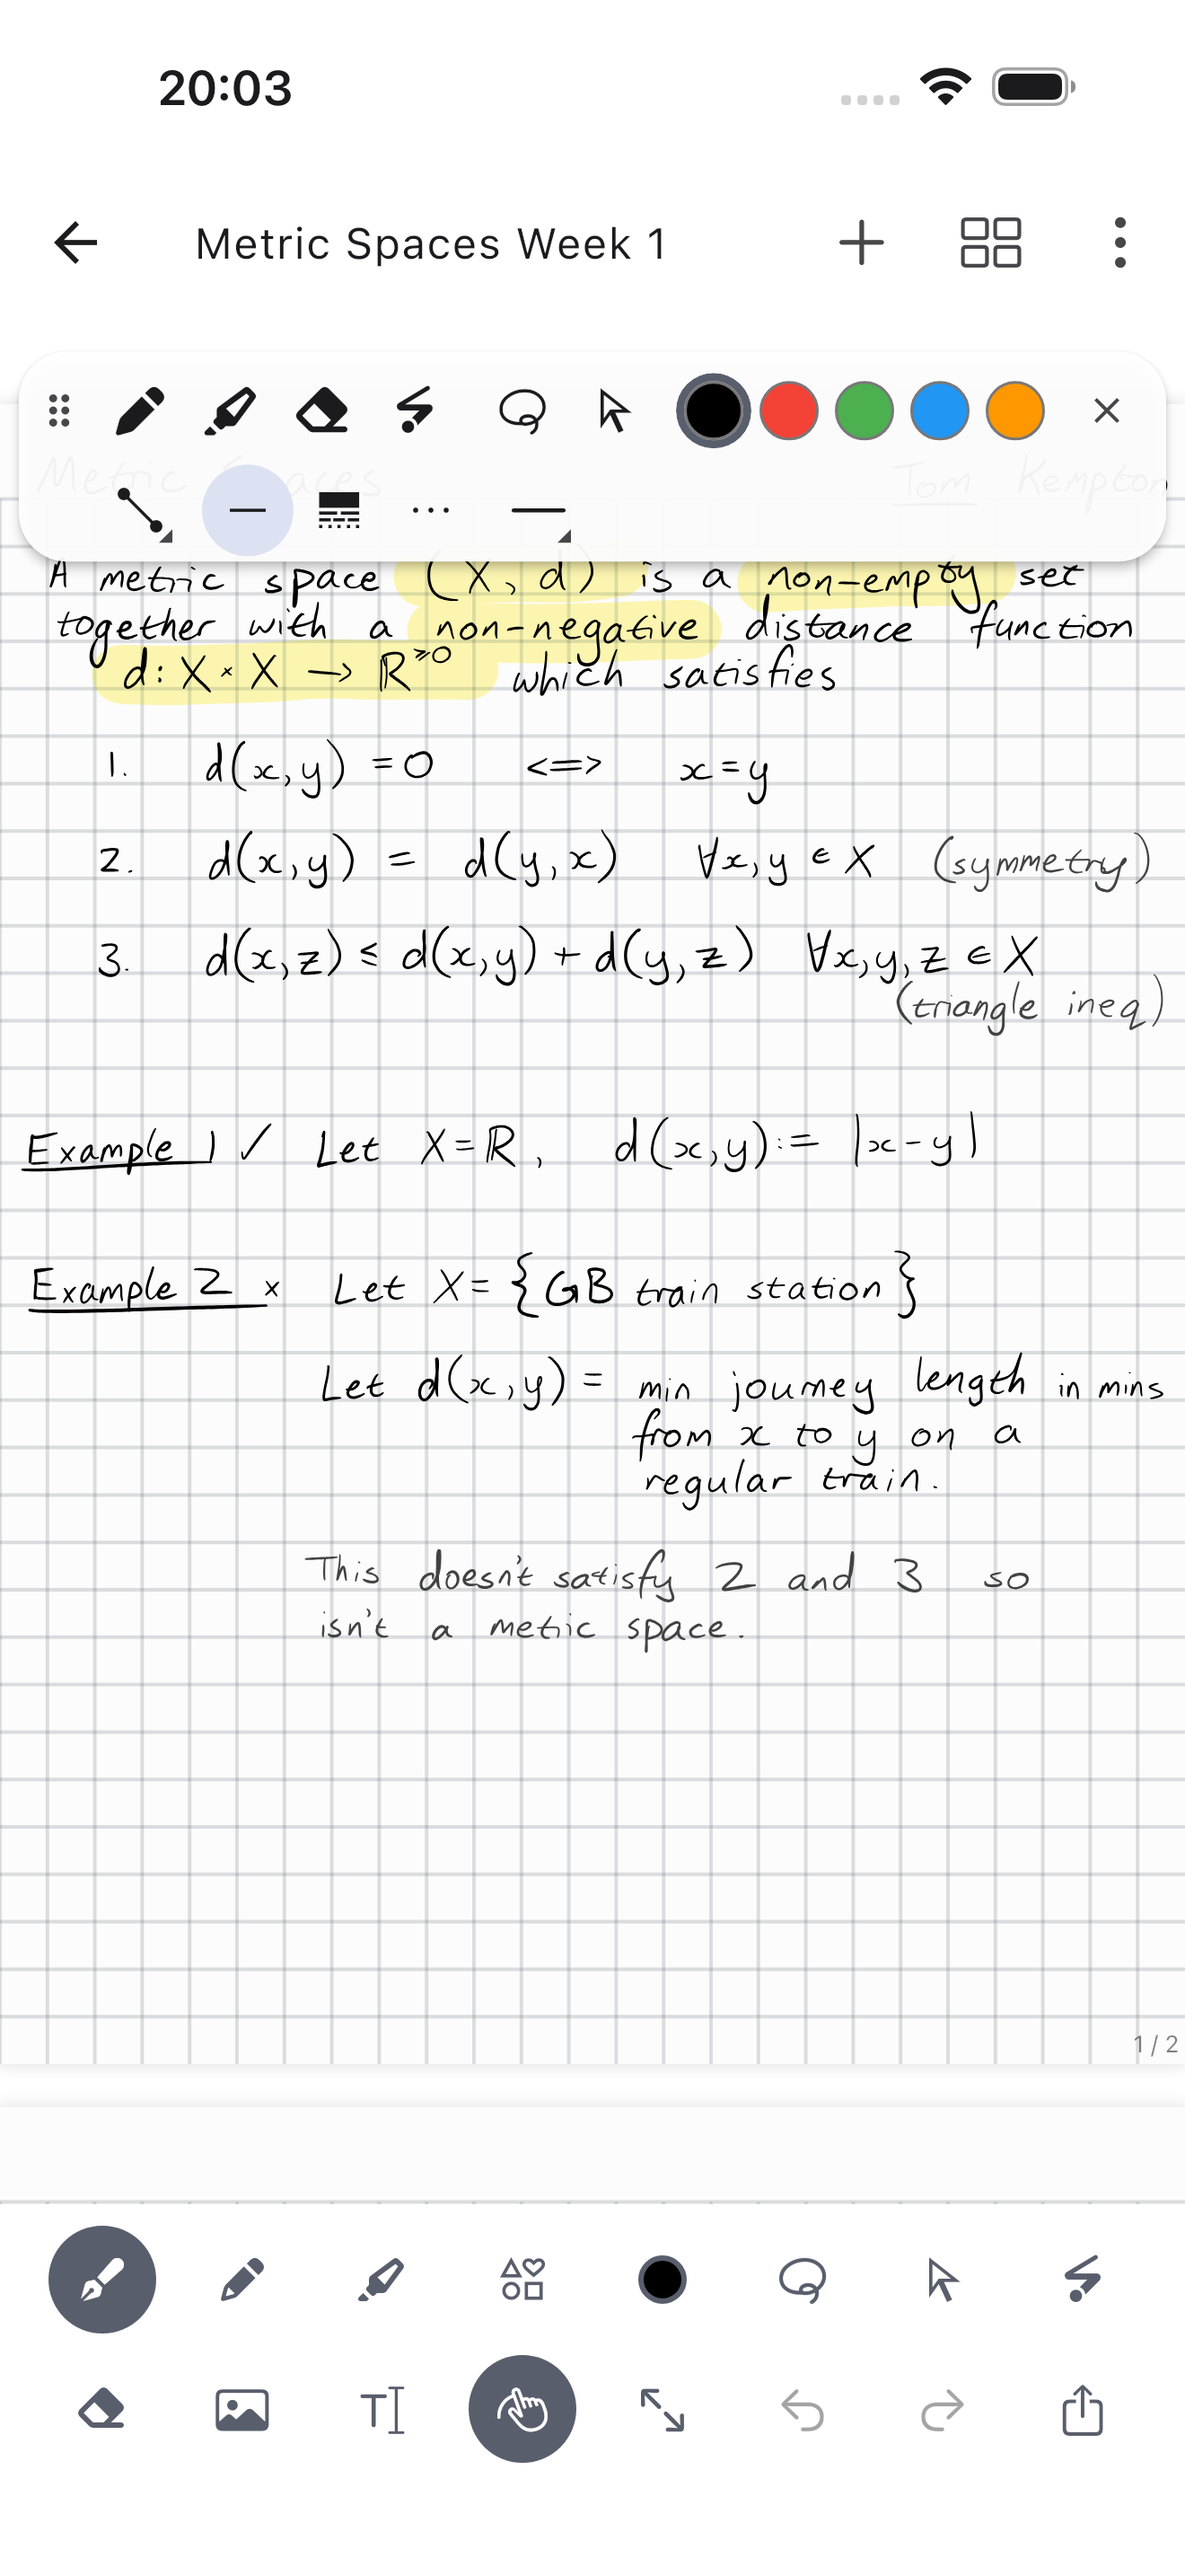
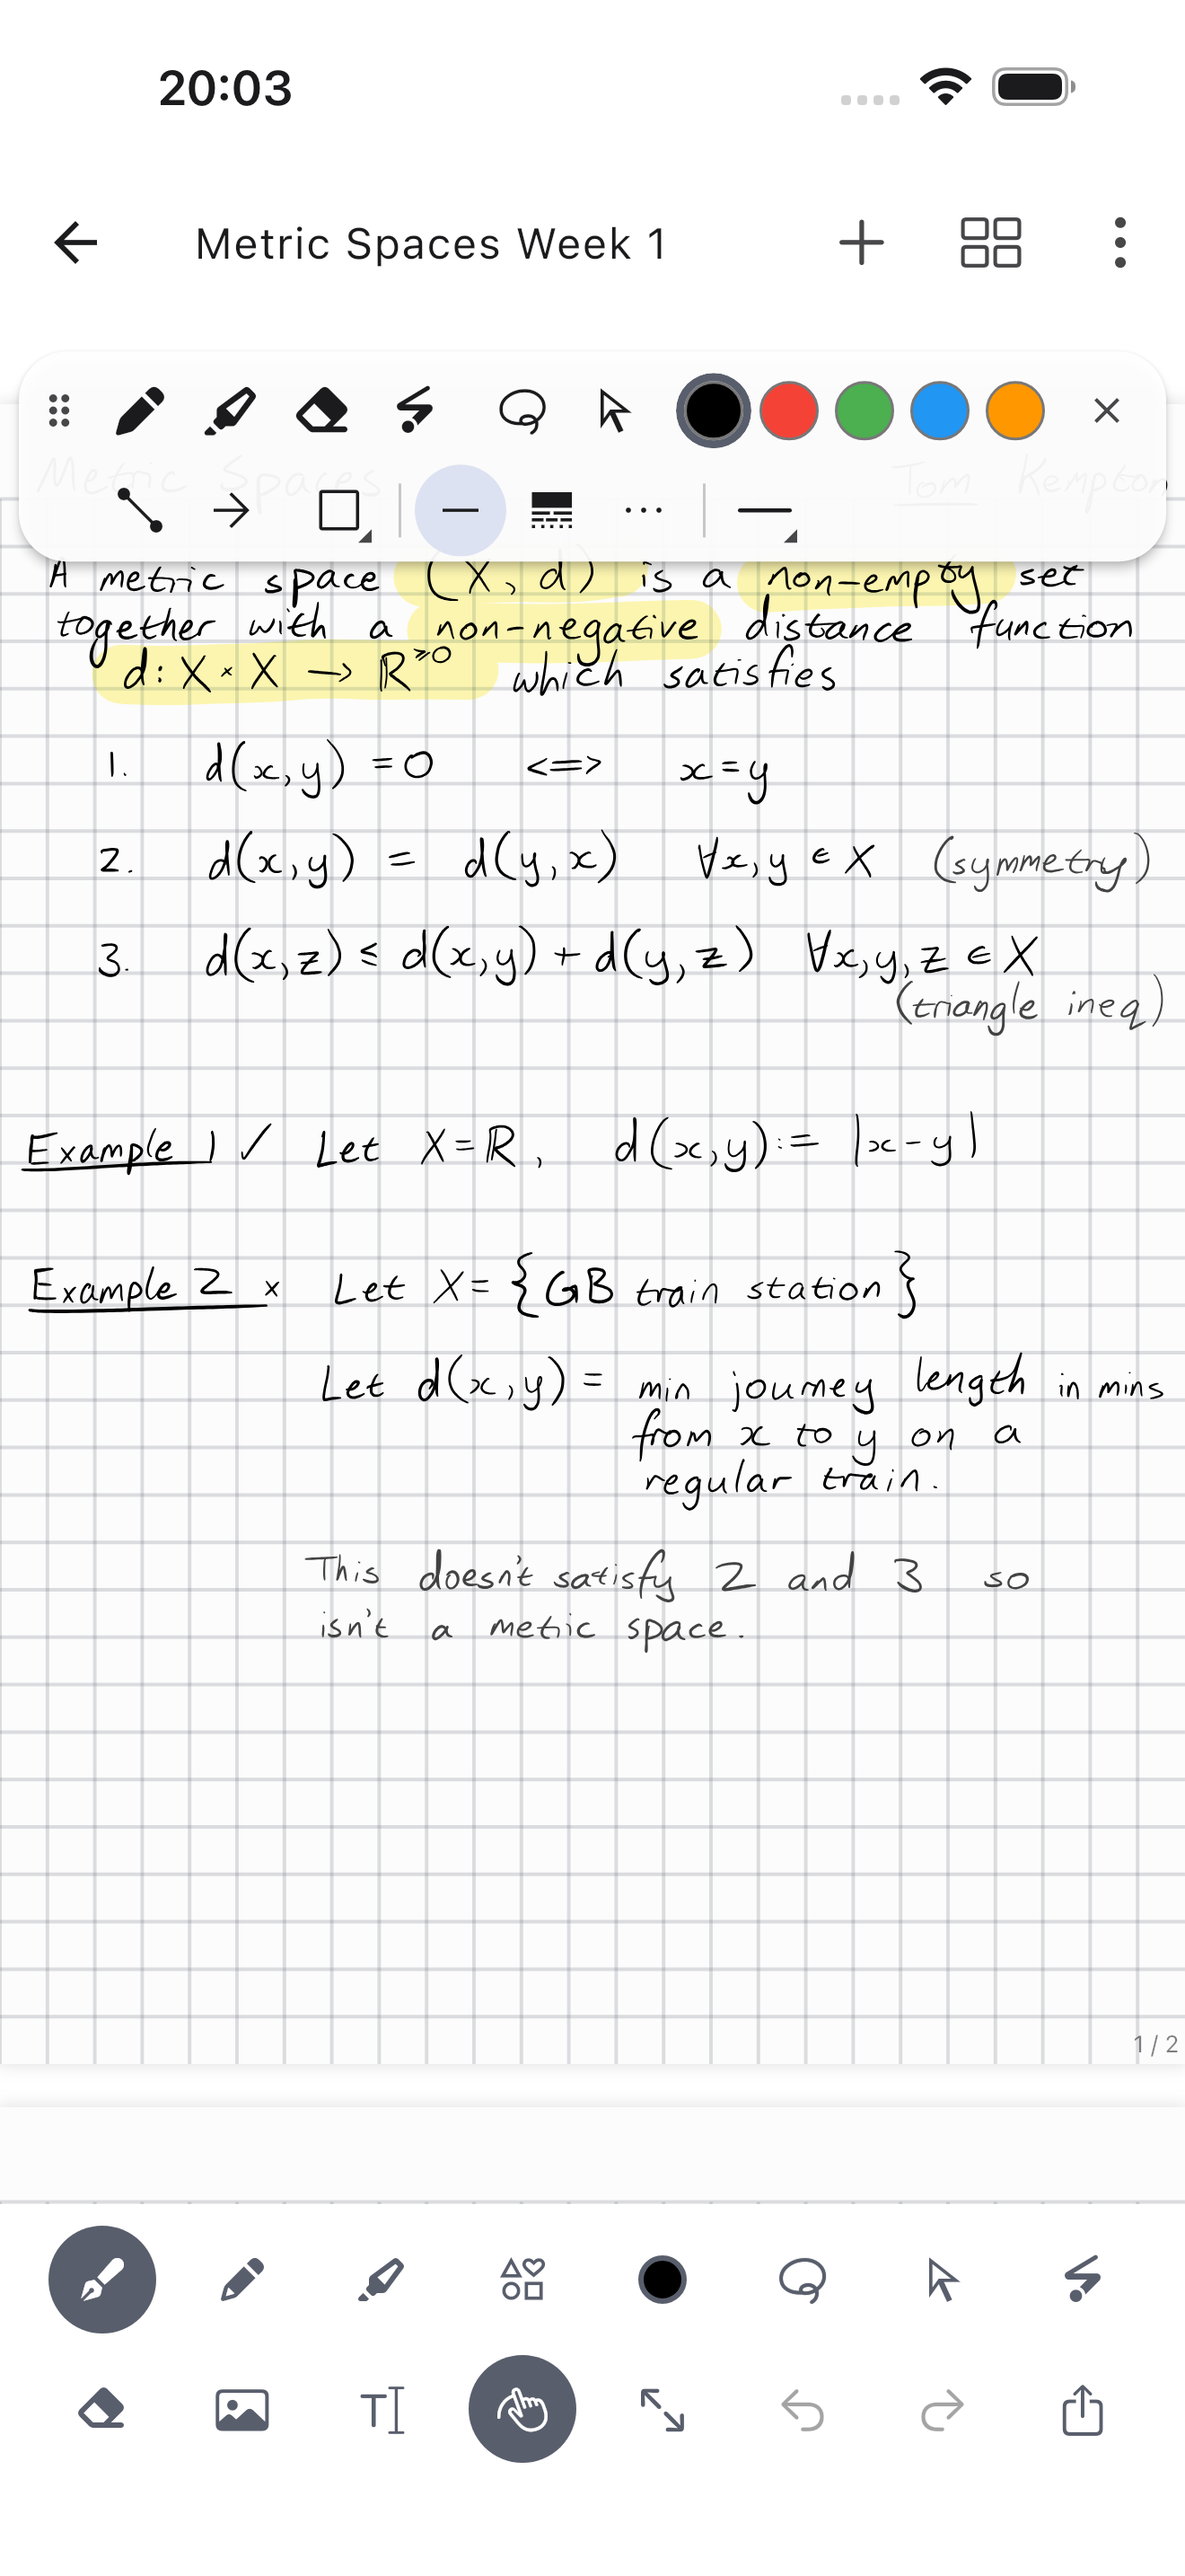
palette: give line and arrow their own buttons
The dropdown keeps the double arrow, rectangle and circle. Lines
now divide the shapes, line types and thickness.

Changed region(s): [[0.3417, 0.1552, 0.497, 0.2172], [0.1553, 0.1552, 0.3106, 0.2172]]

diff --git a/lib/pages/editor/editor.dart b/lib/pages/editor/editor.dart
@@ -1282,6 +1282,17 @@ class EditorState extends State<Editor> {
     Colors.orange,
   ];
 
+  /// The shapes in the palette's dropdown; lines and arrows have
+  /// their own buttons.
+  static const _paletteDropdownShapes = [
+    ShapeKind.doubleArrow,
+    ShapeKind.rectangle,
+    ShapeKind.circle,
+  ];
+
+  /// The dropdown shape used last, shown on the dropdown's button.
+  var _paletteDropdownShape = ShapeKind.rectangle;
+
   /// The stroke sizes on the tool palette, with how thick to draw each icon.
   static const _paletteSizes = <(double, double)>[(1, 1.5), (3, 3.5), (15, 8)];
 
@@ -1315,13 +1326,19 @@ class EditorState extends State<Editor> {
         ? select.getCommonLineType()
         : null;
 
-    const paletteShapes = [
-      ShapeKind.line,
-      ShapeKind.arrow,
-      ShapeKind.doubleArrow,
-      ShapeKind.rectangle,
-      ShapeKind.circle,
-    ];
+    const directShapes = [ShapeKind.line, ShapeKind.arrow];
+    if (_paletteDropdownShapes.contains(shapeTool.kind)) {
+      _paletteDropdownShape = shapeTool.kind;
+    }
+    ToolPaletteItem shapeItem(ShapeKind kind) => ToolPaletteItem(
+      icon: Icon(kind.icon),
+      tooltip: kind.label,
+      selected: currentTool == shapeTool && shapeTool.kind == kind,
+      onSelected: () {
+        shapeTool.kind = kind;
+        setTool(shapeTool);
+      },
+    );
     final currentSize = switch (currentTool) {
       final Pen pen => pen.options.size,
       _ => null,
@@ -1395,23 +1412,13 @@ class EditorState extends State<Editor> {
         ]),
       ],
       [
+        ToolPaletteGroup([for (final kind in directShapes) shapeItem(kind)]),
         ToolPaletteGroup(
           collapsible: true,
-          current: paletteShapes.indexOf(shapeTool.kind),
-          [
-            for (final kind in paletteShapes)
-              ToolPaletteItem(
-                icon: Icon(kind.icon),
-                tooltip: kind.label,
-                selected: currentTool == shapeTool && shapeTool.kind == kind,
-                onSelected: () {
-                  shapeTool.kind = kind;
-                  setTool(shapeTool);
-                },
-              ),
-          ],
+          current: _paletteDropdownShapes.indexOf(_paletteDropdownShape),
+          [for (final kind in _paletteDropdownShapes) shapeItem(kind)],
         ),
-        ToolPaletteGroup([
+        ToolPaletteGroup(divided: true, [
           // centerline is left to the shapes options, to keep this short
           for (final lineType in LineType.values)
             if (lineType != .centerline)
@@ -1430,26 +1437,31 @@ class EditorState extends State<Editor> {
                 },
               ),
         ]),
-        ToolPaletteGroup(collapsible: true, current: currentSizeIndex, [
-          for (final (size, iconThickness) in _paletteSizes)
-            ToolPaletteItem(
-              icon: Container(
-                width: 20,
-                height: iconThickness,
-                decoration: BoxDecoration(
-                  color: colorScheme.onSurface,
-                  borderRadius: .circular(iconThickness / 2),
+        ToolPaletteGroup(
+          collapsible: true,
+          divided: true,
+          current: currentSizeIndex,
+          [
+            for (final (size, iconThickness) in _paletteSizes)
+              ToolPaletteItem(
+                icon: Container(
+                  width: 20,
+                  height: iconThickness,
+                  decoration: BoxDecoration(
+                    color: colorScheme.onSurface,
+                    borderRadius: .circular(iconThickness / 2),
+                  ),
                 ),
+                tooltip: 'Size ${size.round()}',
+                selected: size == currentSize,
+                onSelected: () {
+                  if (currentTool case final Pen pen) {
+                    setState(() => pen.options.size = size);
+                  }
+                },
               ),
-              tooltip: 'Size ${size.round()}',
-              selected: size == currentSize,
-              onSelected: () {
-                if (currentTool case final Pen pen) {
-                  setState(() => pen.options.size = size);
-                }
-              },
-            ),
-        ]),
+          ],
+        ),
       ],
     ];
   }

diff --git a/lib/components/canvas/tool_palette.dart b/lib/components/canvas/tool_palette.dart
@@ -22,14 +22,21 @@ class ToolPaletteItem {
 
 /// A run of related buttons on the [ToolPalette].
 class ToolPaletteGroup {
-  const new(this.items, {this.collapsible = false, int? current})
-    : current = current != null && current >= 0 ? current : null;
+  const new(
+    this.items, {
+    this.collapsible = false,
+    this.divided = false,
+    int? current,
+  }) : current = current != null && current >= 0 ? current : null;
 
   final List<ToolPaletteItem> items;
 
   /// Whether the group shows only its [current] button,
   /// with the others in a dropdown under it.
   final bool collapsible;
+
+  /// Whether a line separates this group from the one before it.
+  final bool divided;
 
   /// The index in [items] of the current choice, if any.
   final int? current;
@@ -153,7 +160,14 @@ class _ToolPaletteState extends State<ToolPalette> {
                                 dimension: ToolPalette._gripSize,
                               ),
                             for (final (groupIndex, group) in row.indexed) ...[
-                              if (groupIndex > 0)
+                              if (groupIndex > 0 && group.divided)
+                                Container(
+                                  width: vertical ? 20 : 1,
+                                  height: vertical ? 1 : 20,
+                                  margin: const .all(5),
+                                  color: colorScheme.outlineVariant,
+                                )
+                              else if (groupIndex > 0)
                                 const SizedBox.square(dimension: 6),
                               if (group.collapsible)
                                 _Dropdown(group: group, vertical: vertical)
